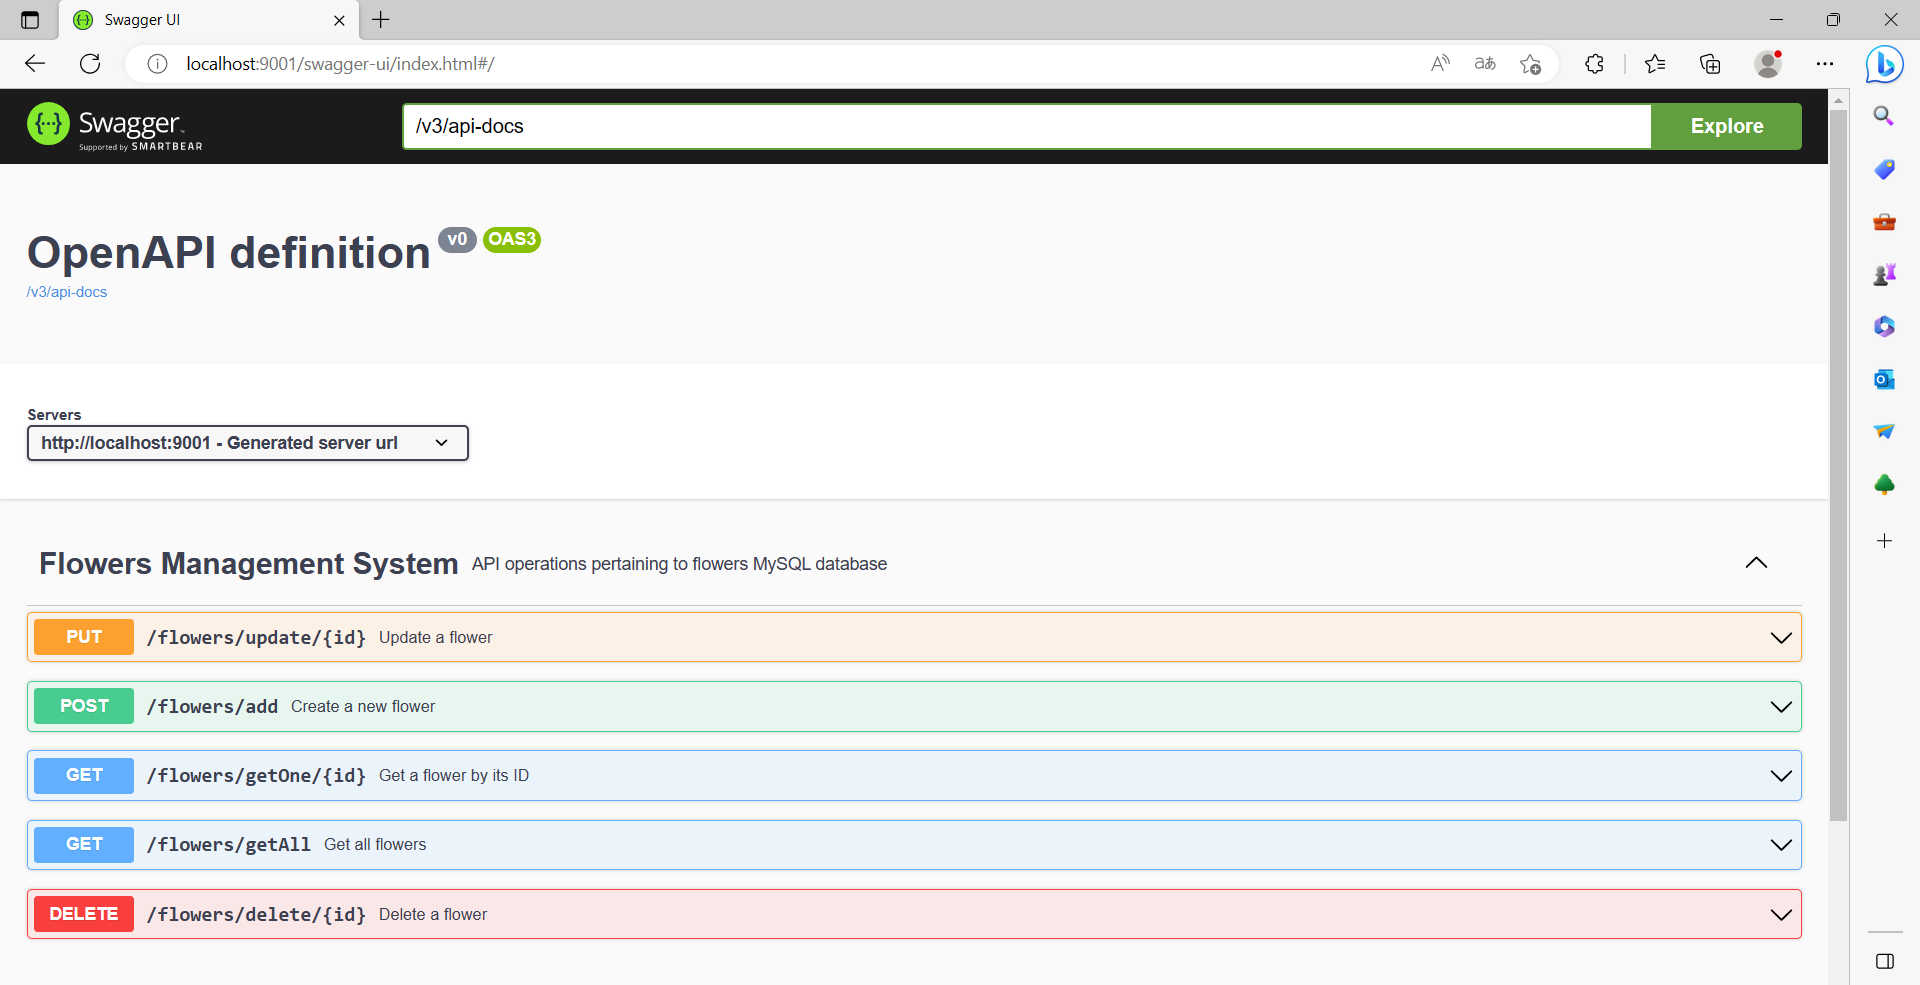
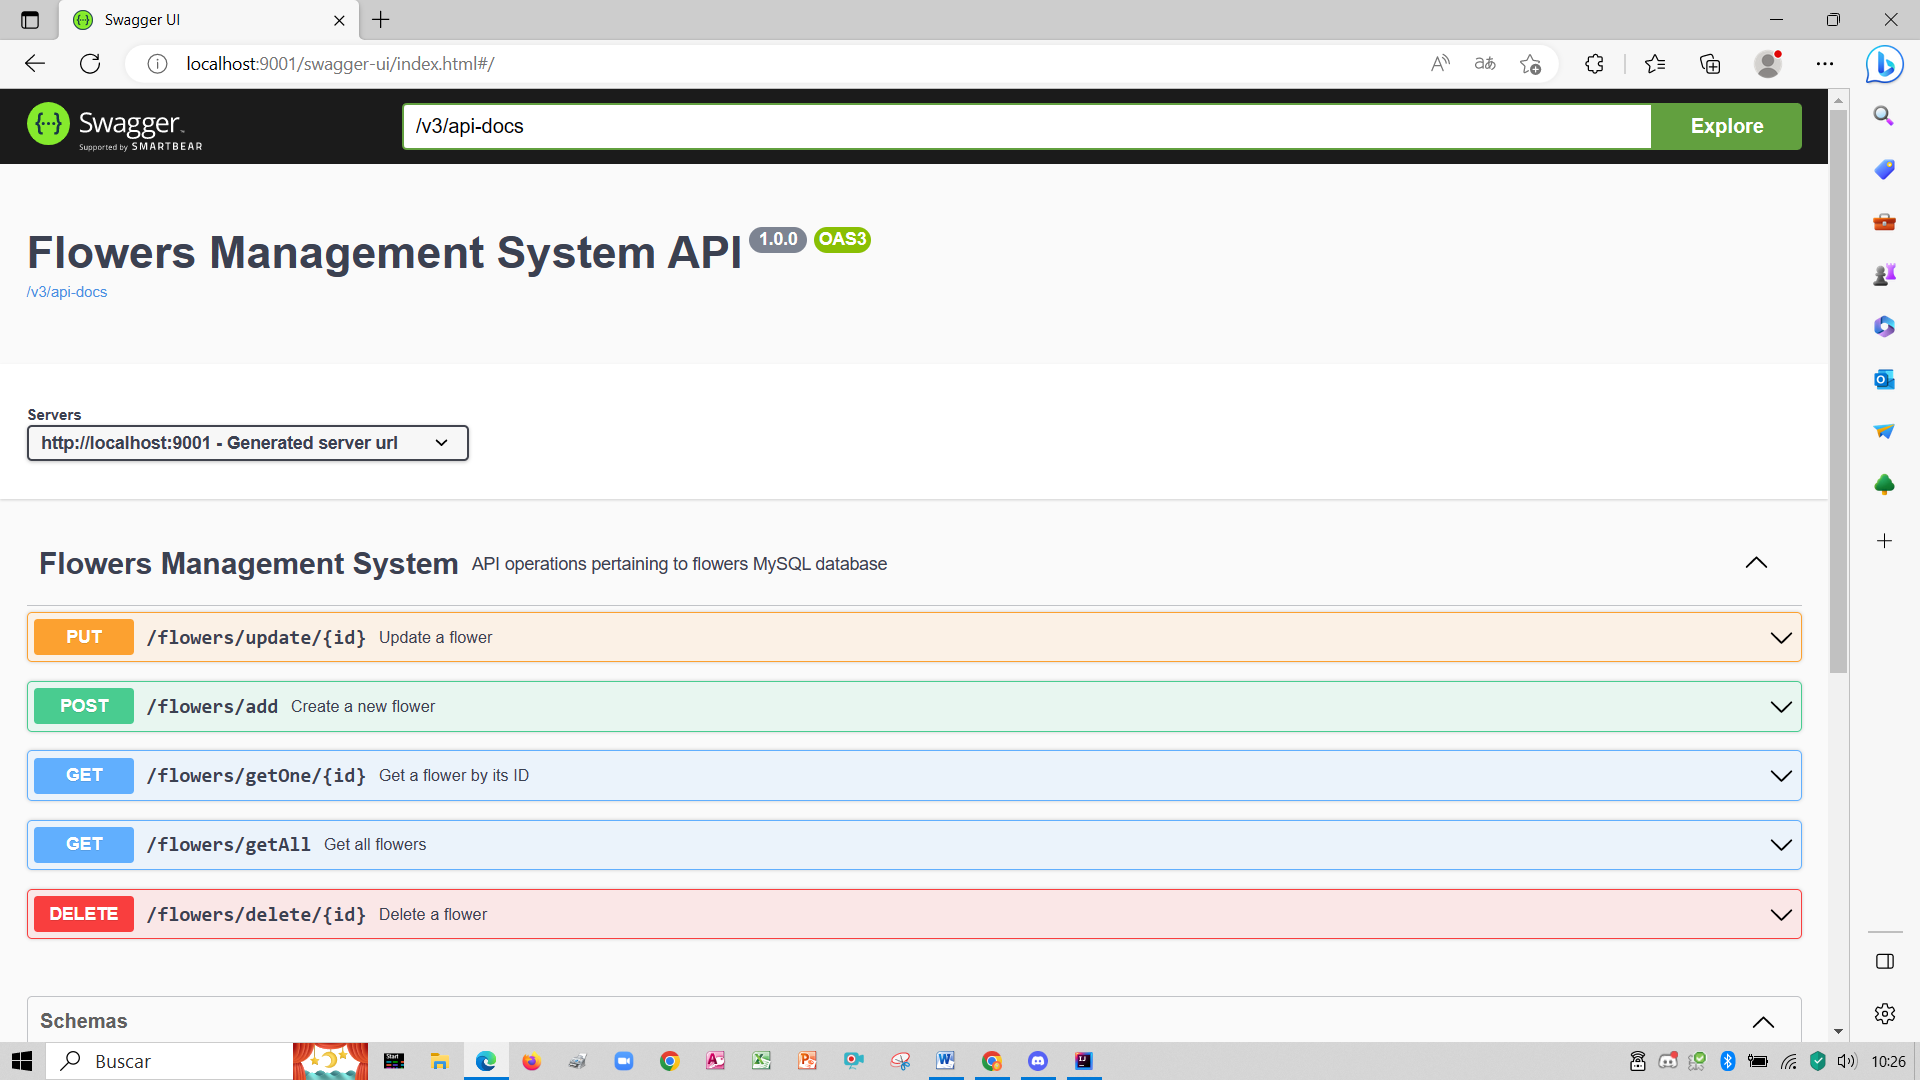
canvi nom api swagger

diff --git a/S05T01N02LizMontse/src/main/java/cat/itacademy/barcelonactiva/liz/montse/s05/t01/n02/S05T01N02LizMontseApplication.java b/S05T01N02LizMontse/src/main/java/cat/itacademy/barcelonactiva/liz/montse/s05/t01/n02/S05T01N02LizMontseApplication.java
@@ -1,11 +1,14 @@
 package cat.itacademy.barcelonactiva.liz.montse.s05.t01.n02;
 
+import io.swagger.v3.oas.annotations.OpenAPIDefinition;
+import io.swagger.v3.oas.annotations.info.Info;
 import org.modelmapper.ModelMapper;
 import org.springframework.boot.SpringApplication;
 import org.springframework.boot.autoconfigure.SpringBootApplication;
 import org.springframework.context.annotation.Bean;
 
 @SpringBootApplication
+@OpenAPIDefinition(info = @Info(title = "Flowers Management System API", version = "1.0.0"))
 public class S05T01N02LizMontseApplication {
 
 	@Bean
